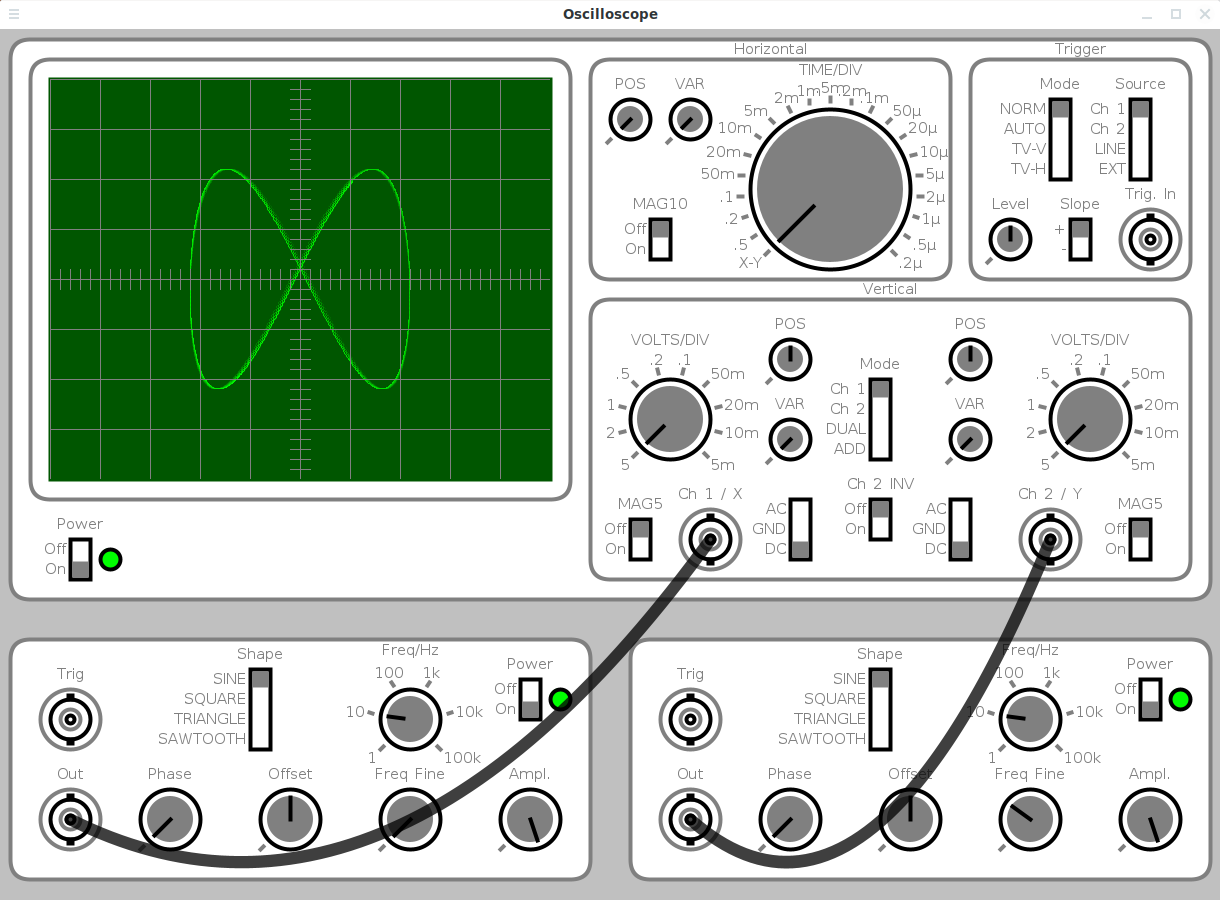
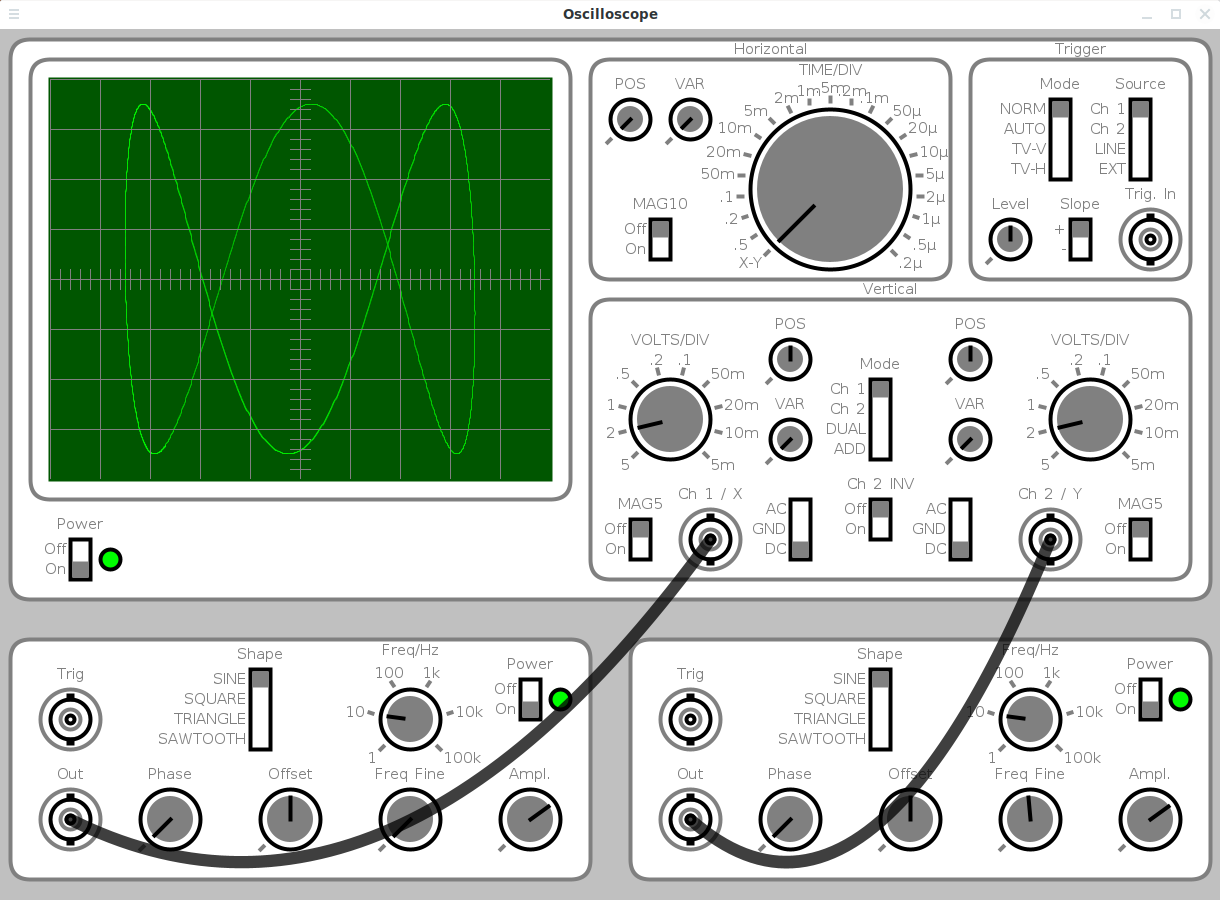
fixed the invalid defaults

diff --git a/src/main/java/de/neemann/oscilloscope/gui/Main.java b/src/main/java/de/neemann/oscilloscope/gui/Main.java
@@ -60,18 +60,20 @@ public class Main extends JFrame {
         if (preset) {
             oscilloscope.getCh1().getPosPoti().set(0.5);
             oscilloscope.getCh1().getCouplingSwitch().set(2);
+            oscilloscope.getCh1().getAmplitudeSwitch().down(false);
             oscilloscope.getCh2().getPosPoti().set(0.5);
             oscilloscope.getCh2().getCouplingSwitch().set(2);
+            oscilloscope.getCh2().getAmplitudeSwitch().down(false);
             oscilloscope.getPowerSwitch().set(1);
             oscilloscope.getTrigger().getLevelPoti().set(0.5);
 
             gen1.getPowerSwitch().set(1);
-            gen1.getAmplitude().set(1.1);
+            gen1.getAmplitude().set(0.7);
             gen1.setFrequencySwitch().down(false);
             gen2.getPowerSwitch().set(1);
-            gen2.getAmplitude().set(1.1);
+            gen2.getAmplitude().set(0.7);
             gen2.setFrequencySwitch().down(false);
-            gen2.setFrequencyFinePoti().set(0.3);
+            gen2.setFrequencyFinePoti().set(Math.log(3)/Math.log(10));
         }
 
     }

diff --git a/src/main/java/de/neemann/oscilloscope/draw/elements/osco/Channel.java b/src/main/java/de/neemann/oscilloscope/draw/elements/osco/Channel.java
@@ -159,4 +159,11 @@ public class Channel {
     public Switch<Coupling> getCouplingSwitch() {
         return coupling;
     }
+
+    /**
+     * @return the amplitude knob
+     */
+    public SelectorKnob<Magnify> getAmplitudeSwitch() {
+        return amplitude;
+    }
 }
